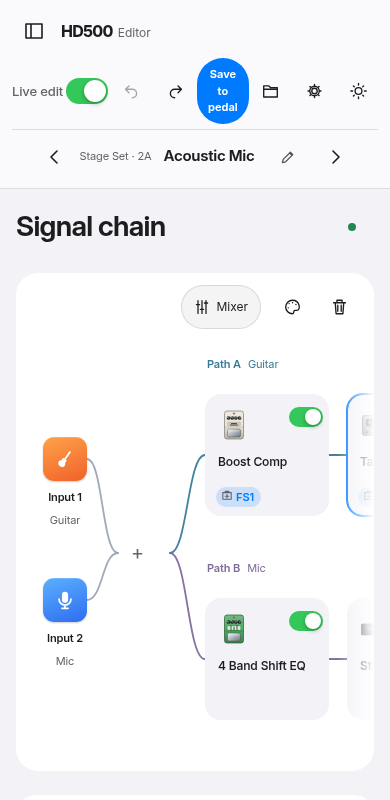
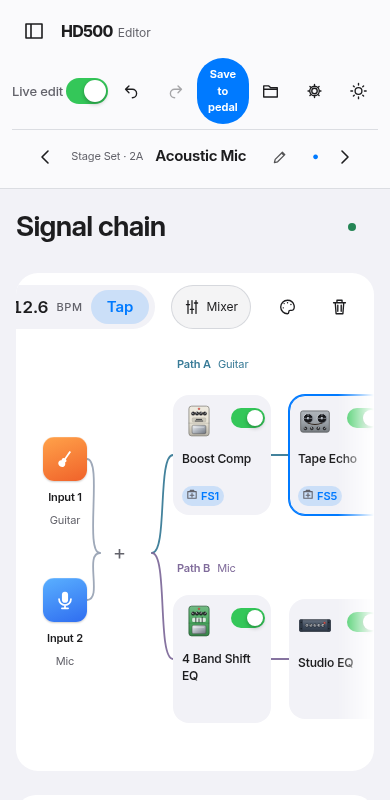
Tempo pill with Tap in the chain toolbar (beat dot, T key); chain fits the window in two compact steps

diff --git a/app/public/js/main.js b/app/public/js/main.js
@@ -1,11 +1,12 @@
 import { openGlobals } from './global.js';
+import { tapTempo, initTempoPill } from './tempo.js';
 import { liveEdits } from './editing.js';
 import { lang, langs, setLang, tr } from './i18n.js';
 import { initTooltips, h, api, fail, toast, $, modal, menu, download, pickFile, bytesToB64, b64ToBytes } from './util.js';
 import { S, onChange, notify, presetLabel } from './store.js';
 import { renderChain, flashItem, isDragging, clearBlock } from './chain.js';
 import { renderInspector, patchParam } from './inspector.js';
-import { renderSetup, renderMixer, renderControllers, renderFootswitches, renderAdvanced, renderSidebar, initSidebar, invalidate, flashFs, libraryProgress, learnSetup, learnUnknown, tapHandler, openDevTools } from './panels.js';
+import { renderSetup, renderMixer, renderControllers, renderFootswitches, renderAdvanced, renderSidebar, initSidebar, invalidate, flashFs, libraryProgress, learnSetup, learnUnknown, openDevTools } from './panels.js';
 import { selectSlot } from './nav.js';
 import { icon, buttonIcon } from './icons.js';
 
@@ -196,7 +197,7 @@ $('#librarySidebar').addEventListener('keydown',e=>{
 const openMixer = () => { S.tab = 'mixer'; renderSide(); document.querySelector('#side')?.scrollIntoView({ behavior: matchMedia('(prefers-reduced-motion: reduce)').matches ? 'auto' : 'smooth', block: 'center' }); };
 { const b = $('#openMixer'); b.append(icon('mixer'), document.createTextNode('Mixer')); b.onclick = openMixer; }
 document.addEventListener('open-mixer', openMixer);
-addEventListener('keydown', e => { if (!e.ctrlKey && !e.metaKey && !e.altKey && !e.repeat && e.key.toLowerCase() === 't' && !e.target.matches('input, textarea, select, [contenteditable]')) { if (S.tab !== 'setup') { S.tab = 'setup'; renderSide(); } tapHandler?.(); } });
+addEventListener('keydown', e => { if (!e.ctrlKey && !e.metaKey && !e.altKey && !e.repeat && e.key.toLowerCase() === 't' && !e.target.matches('input, textarea, select, [contenteditable]')) tapTempo(); });
 addEventListener('keydown', e => { if (!e.ctrlKey && !e.metaKey && !e.altKey && e.key.toLowerCase() === 'm' && !e.target.matches('input, textarea, select, [contenteditable]')) openMixer(); });
 
 // lápis visíveis: renomear o preset atual e o set atual
@@ -208,9 +209,15 @@ addEventListener('keydown', e => { if (!e.ctrlKey && !e.metaKey && !e.altKey && 
 {
   const sc = document.querySelector('.chain-scroll');
   if (sc) {
+    const chain = sc.querySelector('#chain');
+    // Fit: tighten the layout in two steps before falling back to scrolling.
+    const fit = () => { if (!chain) return; chain.classList.remove('compact', 'tight'); if (sc.scrollWidth > sc.clientWidth + 2) { chain.classList.add('compact'); if (sc.scrollWidth > sc.clientWidth + 2) chain.classList.add('tight'); } };
     const paint = () => { sc.dataset.fadeL = String(sc.scrollLeft > 4); sc.dataset.fadeR = String(sc.scrollLeft + sc.clientWidth < sc.scrollWidth - 4); };
     sc.addEventListener('scroll', paint, { passive: true });
-    new ResizeObserver(paint).observe(sc); new MutationObserver(paint).observe(sc, { childList: true, subtree: true });
-    paint();
+    let raf = 0; const refit = () => { cancelAnimationFrame(raf); raf = requestAnimationFrame(() => { fit(); paint(); }); };
+    new ResizeObserver(refit).observe(sc); new MutationObserver(refit).observe(sc, { childList: true, subtree: true });
+    refit();
   }
 }
+
+initTempoPill(document.querySelector('.canvas-toolbar > div'));

diff --git a/app/public/js/panels.js b/app/public/js/panels.js
@@ -7,9 +7,11 @@ import { icon } from './icons.js';
 import { tr } from './i18n.js';
 import { bindLiveInput, liveEdits, optimistic } from './editing.js';
 import { Knob } from './knob.js';
+import { tapTempo, setTempo } from './tempo.js';
 
 // ---------------------------------------------------------------------------------------- Entradas / preset
-export let tapHandler = null;
+let bpmInput = null;
+document.addEventListener('tempo', e => { if (bpmInput?.isConnected && document.activeElement !== bpmInput) bpmInput.value = e.detail; });
 export function renderSetup(root) {
   const p = S.st.preset, su = p.setup;
   const name = h('input', { type: 'text', maxlength: 16, value: p.name, 'aria-label': 'Preset name', style: { width: '190px', background: 'var(--panel3)', border: '1px solid var(--line)', borderRadius: '8px', padding: '6px 8px' } });
@@ -20,16 +22,7 @@ export function renderSetup(root) {
   };
   const bpm = h('input', { type: 'number', min: 30, max: 240, step: 1, value: Math.round(p.tempo), 'aria-label': 'Tempo (BPM)', style: { width: '80px' } });
   bindLiveInput(bpm, 'tempo', () => ({ bpm: Number(bpm.value) }), () => { p.tempo = Number(bpm.value); });
-  // Tap tempo: average of the last intervals; a pause longer than 2 s starts a new count.
-  let taps = [];
-  const tap = h('button', { class: 'tap-btn', type: 'button', title: 'Tap the tempo (T)', 'aria-label': 'Tap tempo', onClick: () => {
-    const now = performance.now(); if (taps.length && now - taps.at(-1) > 2000) taps = [];
-    taps.push(now); taps = taps.slice(-6); if (taps.length < 2) return;
-    const gaps = taps.slice(1).map((t, i) => t - taps[i]), bpm = Math.min(240, Math.max(30, Math.round(600000 / (gaps.reduce((a, b) => a + b, 0) / gaps.length)) / 10));
-    bpm_set(bpm);
-  } }, 'Tap');
-  const bpm_set = v => { bpm.value = v; p.tempo = v; edit('tempo', { bpm: v }).catch(fail); };
-  tapHandler = () => tap.click();
+  bpmInput = bpm;
   root.replaceChildren(
     h('div', { class: 'ios-group' }, h('div', { class: 'row' }, h('label', {}, 'Preset name'), name)),
     h('h3', { class: 'ios-header' }, 'Input routing'),
@@ -38,7 +31,7 @@ export function renderSetup(root) {
       select('Input 2 (path B)', 'input2', S.cat.input2, 0x37),
       select('Guitar input impedance', 'inZ', S.cat.inZ, 0x55)),
     h('details', { class: 'inset-details' }, h('summary', {}, 'Input routing help'), h('p', { class: 'dim' }, 'To use a mic and a guitar together: Input 1 = Guitar and Input 2 = Mic. Each input feeds its own path (A and B) in the signal chain.')),
-    h('div', { class: 'ios-group' }, h('div', { class: 'row' }, h('label', {}, 'Tempo (BPM)'), bpm, tap)));
+    h('div', { class: 'ios-group' }, h('div', { class: 'row' }, h('label', {}, 'Tempo (BPM)'), bpm, h('button', { class: 'tap-btn', type: 'button', title: 'Tap the tempo (T)', 'aria-label': 'Tap tempo', onClick: tapTempo }, 'Tap'))));
 }
 
 

diff --git a/app/public/js/tempo.js b/app/public/js/tempo.js
@@ -1,0 +1,44 @@
+// Tap tempo + the always-visible tempo pill in the signal-chain toolbar.
+import { h, fail } from './util.js';
+import { S } from './store.js';
+import { edit } from './params.js';
+import { icon } from './icons.js';
+
+let taps = [], pill = null, out = null, dot = null;
+const clampBpm = v => Math.min(240, Math.max(30, v));
+
+export function setTempo(bpm, { send = true } = {}) {
+  const v = Math.round(clampBpm(bpm) * 10) / 10;
+  if (S.st) S.st.preset.tempo = v;
+  paint(v); document.dispatchEvent(new CustomEvent('tempo', { detail: v }));
+  if (send) edit('tempo', { bpm: v }).catch(fail);
+}
+
+/** Average of the last intervals; a pause longer than 2 s starts a new count. */
+export function tapTempo() {
+  const now = performance.now();
+  if (taps.length && now - taps.at(-1) > 2000) taps = [];
+  taps.push(now); taps = taps.slice(-6);
+  pill?.classList.remove('tapped'); void pill?.offsetWidth; pill?.classList.add('tapped');
+  if (taps.length < 2) return;
+  const gaps = taps.slice(1).map((t, i) => t - taps[i]);
+  setTempo(60000 / (gaps.reduce((a, b) => a + b, 0) / gaps.length));
+}
+
+function paint(bpm = S.st?.preset?.tempo) {
+  if (!out || !Number.isFinite(bpm)) return;
+  out.textContent = bpm.toFixed(1).replace(/\.0$/, '');
+  dot?.style.setProperty('--beat', `${(60 / bpm).toFixed(3)}s`);
+}
+
+export function initTempoPill(toolbar) {
+  if (!toolbar || pill) return;
+  out = h('b', { class: 'tempo-bpm', title: 'Double-click to type a tempo' }, '120');
+  dot = h('i', { class: 'tempo-dot', 'aria-hidden': 'true' });
+  out.ondblclick = () => { const t = prompt('Tempo (BPM, 30–240)', out.textContent); if (t != null && t.trim() !== '' && !Number.isNaN(Number(t))) setTempo(Number(t)); };
+  const tap = h('button', { class: 'tap-btn', type: 'button', title: 'Tap the tempo (T)', 'aria-label': 'Tap tempo', onClick: tapTempo }, 'Tap');
+  pill = h('div', { class: 'tempo-pill', role: 'group', 'aria-label': 'Tempo' }, dot, out, h('span', { class: 'tempo-unit' }, 'BPM'), tap);
+  toolbar.prepend(pill);
+  S.listeners.add(() => paint());
+  paint();
+}

diff --git a/app/public/css/app.css b/app/public/css/app.css
@@ -2136,3 +2136,23 @@ button, select, input, .block, .slot, .row, .tag, .io-tile, .fsbtn, .pill { tran
 .node-tags.dual .tag { flex:1 1 0; min-width:0; justify-content:center; padding:0 5px; }
 .tag > span, .tag { overflow:hidden; text-overflow:clip; }
 .tag-toe { color:var(--accent); }
+
+/* Tempo pill in the chain toolbar */
+.canvas-toolbar > div { display:flex; align-items:center; gap:8px; }
+.tempo-pill { display:inline-flex; align-items:center; gap:8px; height:44px; padding:0 6px 0 14px; border-radius:99px; background:var(--panel2); margin-right:8px; }
+.tempo-bpm { font:600 17px var(--font-display); font-variant-numeric:tabular-nums; min-width:2.2em; text-align:right; cursor:text; }
+.tempo-unit { font:500 11px var(--font-text); letter-spacing:.06em; color:var(--dim); }
+.tempo-dot { width:8px; height:8px; border-radius:50%; background:var(--accent); animation:beat var(--beat,.5s) ease-in-out infinite; }
+@keyframes beat { 0%,100% { opacity:.25; transform:scale(.8); } 8% { opacity:1; transform:scale(1.15); } 40% { opacity:.25; transform:scale(.8); } }
+.tempo-pill.tapped .tap-btn { background:color-mix(in srgb,var(--accent) 34%,transparent); }
+
+/* Fit-to-width steps for the signal chain */
+#chain.compact { gap:14px; grid-template-columns:60px auto minmax(300px,1fr) 52px auto 60px; }
+#chain.compact .block { width:112px; padding:10px; }
+#chain.compact .path-row { gap:12px; padding:16px 6px 8px; }
+#chain.compact .node-tags { left:8px; right:6px; }
+#chain.compact .tag { padding:0 5px 0 4px; font-size:11px; }
+#chain.tight { gap:8px; }
+#chain.tight .block { width:98px; padding:8px; }
+#chain.tight .path-row { gap:8px; }
+#chain.tight .block > .gear { width:34px; height:34px; }
